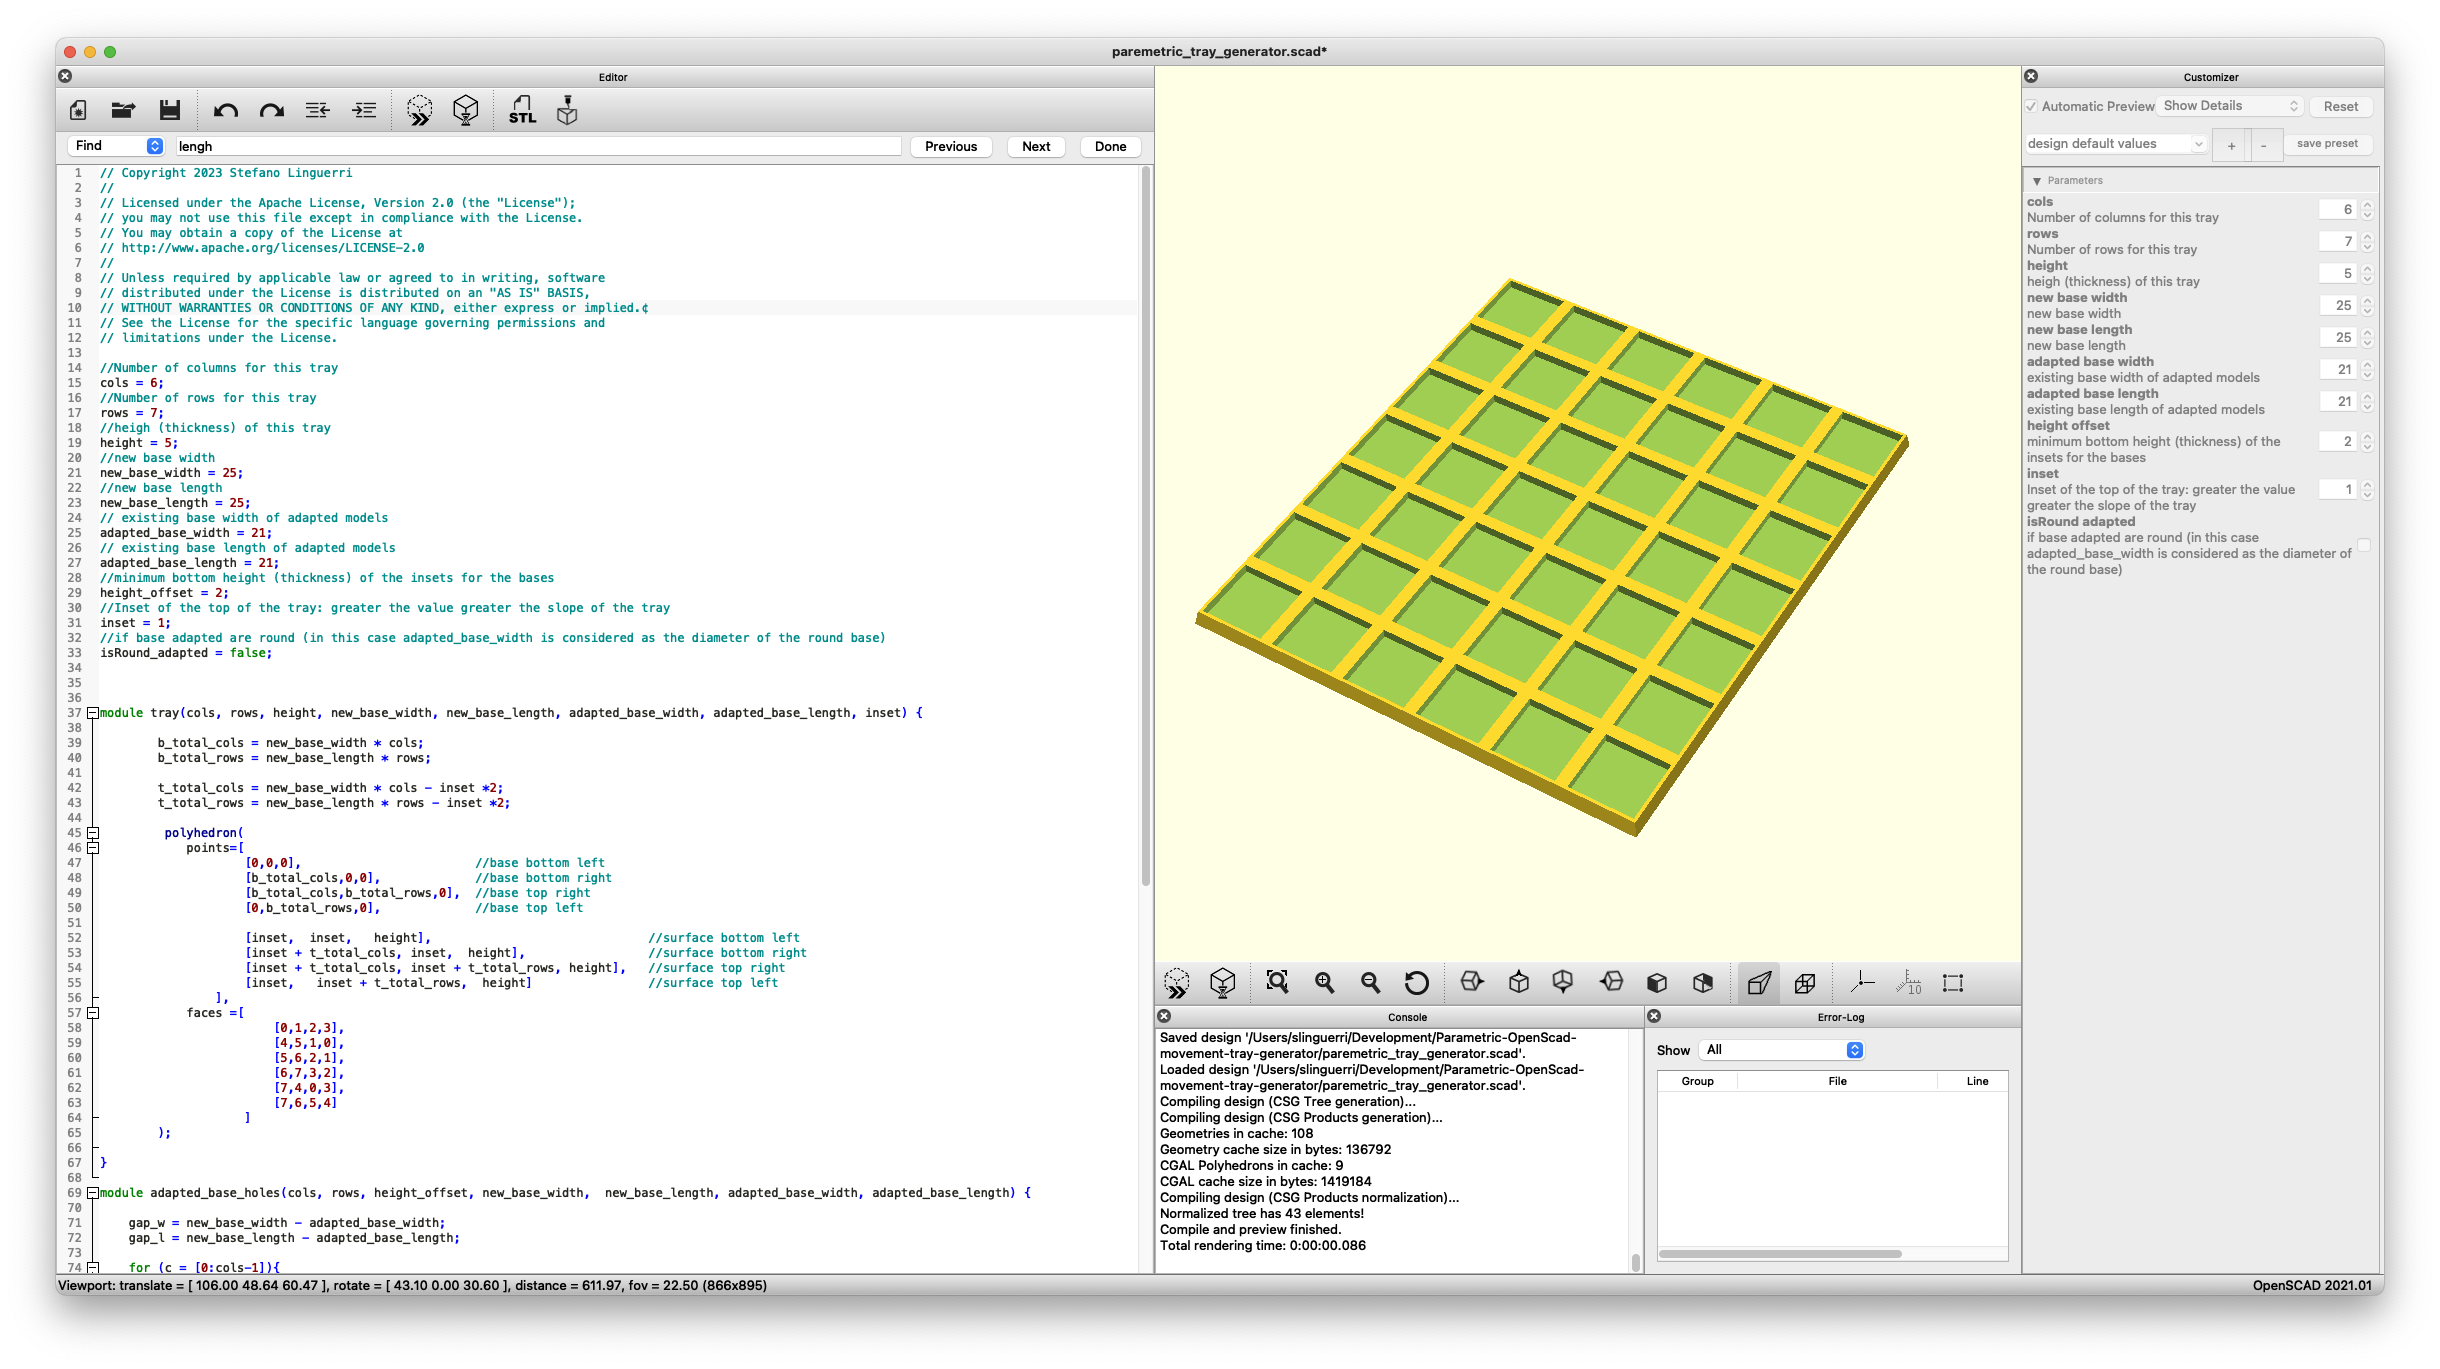
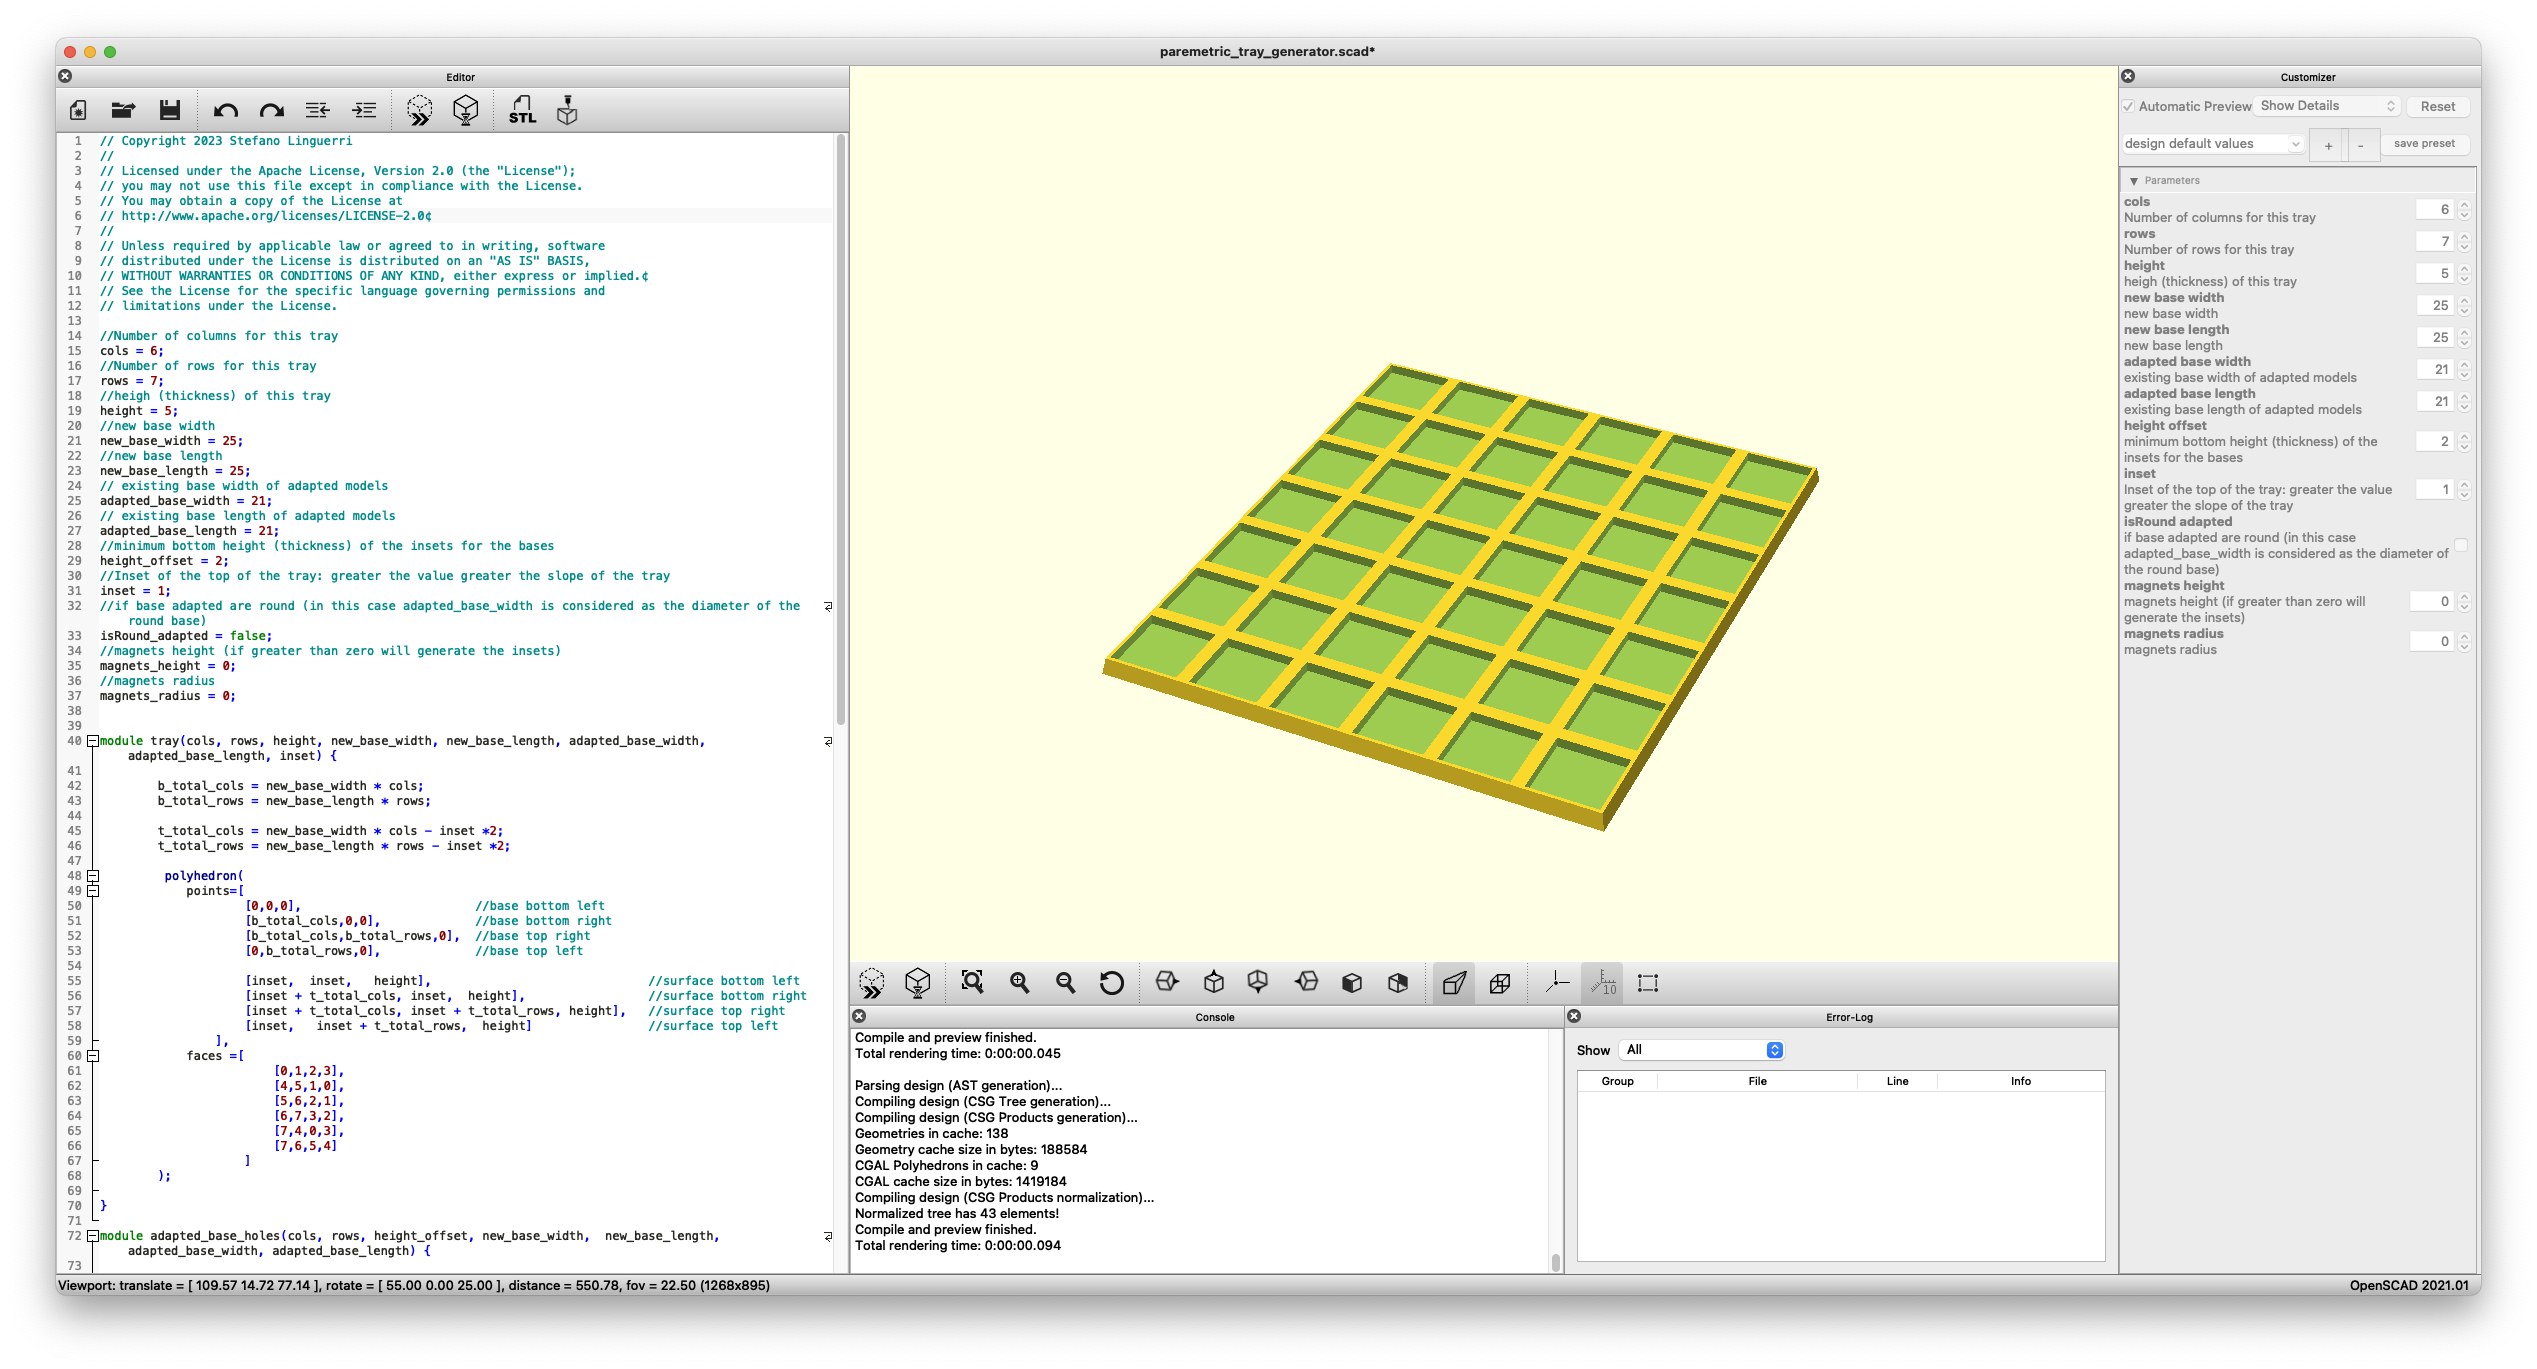
support for magnets insets closes #3

diff --git a/README.md b/README.md
@@ -19,6 +19,10 @@ The script can also generate a tray to adapt round bases setting ```isRound_adap
 
 If you use different values for width and lenght you can generate also adapters for cavalry
 
+## Important note
+
+When setting the value for ```adapted_base_width```and ```adapted_base_length``` add 1mm of tolerance eg: set 21mm for an old 20mm square base. The final "fit" depends also on you printer settings and calibration.  
+
 ### Parameters
 
 ```cols```  Number of columns for this tray
@@ -41,6 +45,11 @@ If you use different values for width and lenght you can generate also adapters 
 
 ```isRound_adapted``` if base adapted are round (in this case adapted_base_size is considered as the diameter of the round base)
 
+```magnets_height``` magnets height (if greater than zero will generate the insets)
+
+```magnets_radius``` magnets radius
+
+
 ## Samples
 
 ### Square 20mm to 25mm sample:
@@ -54,6 +63,10 @@ If you use different values for width and lenght you can generate also adapters 
 ### Rectangular 25x50mm to 30x60mm sample:
 
 <img src="rectangular.png" alt= “sample” width="600" >
+
+### Magnets 3x1mm insets
+
+<img src="magnets.png" alt= “sample” width="600" >
 
 
 ## License
